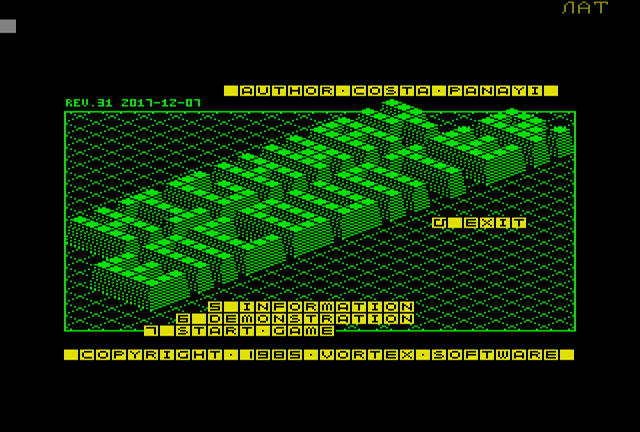
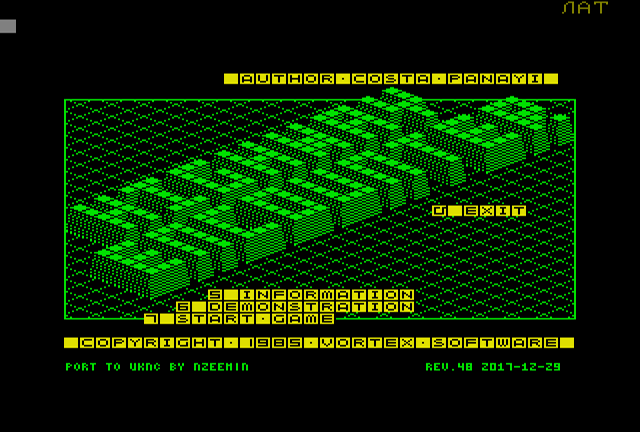
DEMO mode works now.

Changed region(s): [[0.0938, 0.1505, 0.9062, 0.8727]]

diff --git a/README.md b/README.md
@@ -3,5 +3,8 @@ Porting game Highway Encounter from ZX Spectrum to UKNC, work in progress.
 
 Screenshots of the ported version:
 
-![](screenshot/title-screen.png) ![](screenshot/info-screen.png)
-![](screenshot/demo-screen.png) ![](screenshot/start-animation.png)
+![](screenshot/title-screen.png) ![](screenshot/info-screen.png) ![](screenshot/start-animation.png)
+
+Video of DEMO mode:
+
+[![](http://img.youtube.com/vi/YFid2H-5iIA/0.jpg)](http://www.youtube.com/watch?v=YFid2H-5iIA)
